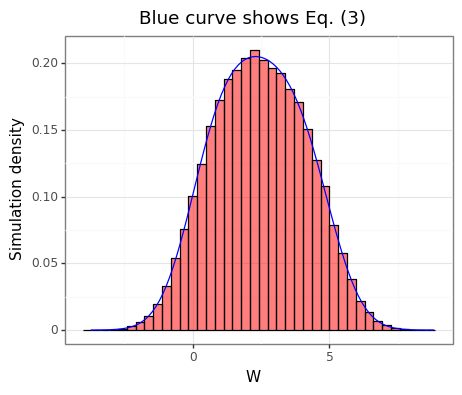
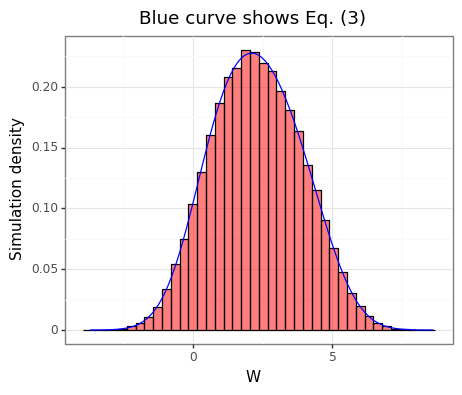
added queries

diff --git a/_rmd/extra_truncnorm/run_sim.py b/_rmd/extra_truncnorm/run_sim.py
@@ -13,20 +13,25 @@ from classes import BVN, NTS, two_stage
 dir_base = os.getcwd()
 dir_figures = os.path.join(dir_base,'figures')
 
-########################
-# --- QUERIES 1964 --- #
+#############################
+# --- (4C) DATA CARVING --- #
+
+
+
+
+#############################
+# --- (4A) QUERIES 1964 --- #
 # X~N(100,6), Y~TN(50,3,44,Inf)
 
+mu1, tau1 = 100, 6
+mu2, tau2, a, b = 50, 3, 44, np.inf
+mu, tau = np.array([mu1, mu2]), np.array([tau1,tau2])
+dist_A = NTS(mu=mu,tau=tau, a=a, b=b)
+dist_A.cdf(138)
 
 
-
-###########################################
-# --- COMPARE BVN INTEGRATION METHODS --- #
-
-# https://stats.stackexchange.com/questions/61080/how-can-i-calculate-int-infty-infty-phi-left-fracw-ab-right-phiw?noredirect=1&lq=1
-# https://math.stackexchange.com/questions/449875/expected-value-of-normal-cdf/1125935
-# https://math.stackexchange.com/questions/2392827/normal-random-variable-as-argument-of-standard-normal-cdf
-
+#######################################
+# --- (2) BVN INTEGRATION METHODS --- #
 
 # Set up a BVN
 mu = np.array([1,2])
@@ -96,13 +101,13 @@ gg_rtime = (ggplot(df_pval,aes(x='xlbl',y='rtime',color='method')) +
     theme(axis_text_x=element_text(angle=90)))
 gg_rtime.save(os.path.join(dir_figures,'gg_rtime.png'),width=7,height=4.5)
 
-################################
-# --- NORMAL-TRUNCATED-SUM --- #
+####################################
+# --- (3) NORMAL-TRUNCATED-SUM --- #
 
 # Demonstrated with example
 mu1, tau1 = 1, 1
 mu2, tau2, a, b = 1, 2, -1, 4
-mu, tau = np.array([mu1, mu2]), np.array([tau1,tau2])**2
+mu, tau = np.array([mu1, mu2]), np.array([tau1,tau2])
 dist_NTS = NTS(mu=mu,tau=tau, a=a, b=b)
 n_iter = 100000
 W_sim = dist_NTS.rvs(n=n_iter,seed=1)
@@ -147,8 +152,8 @@ gg_ppqq = (ggplot(dat_ppqq,aes(x='theory',y='emp')) +
 gg_ppqq.save(os.path.join(dir_figures,'gg_ppqq.png'),width=8,height=3.5)
 
 
-################################
-# --- TWO-STAGE REGRESSION --- #
+#####################################
+# --- (4B) TWO-STAGE REGRESSION --- #
 
 delta, sigma2 = 2, 4
 n, m = 100, 100
